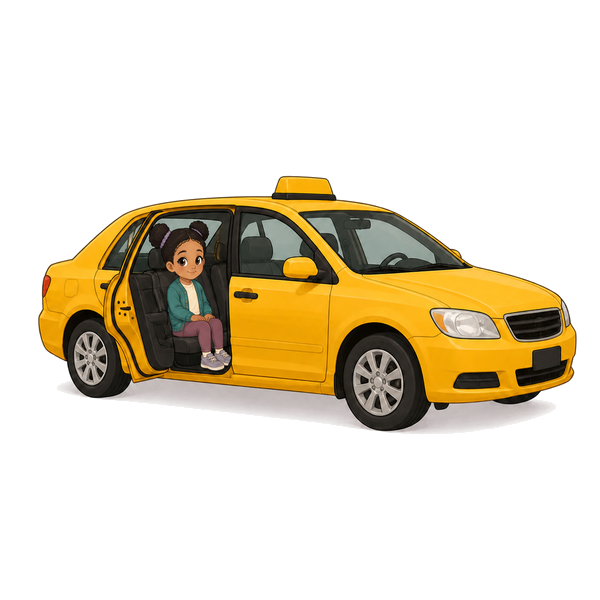
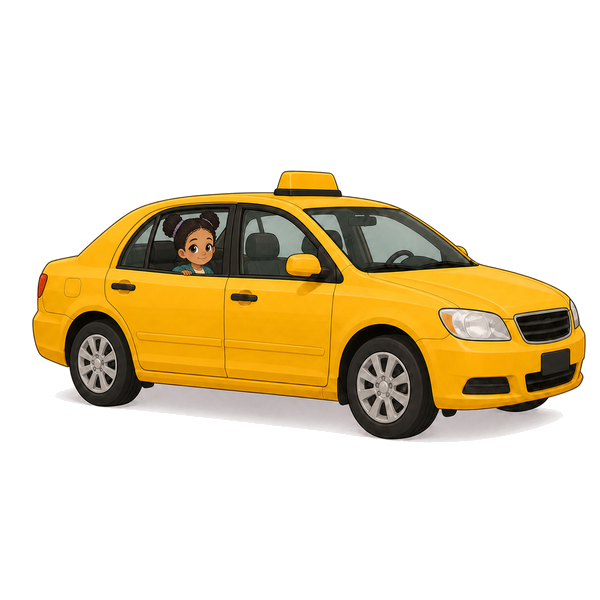
Correct Meg taxi door geometry

Changed region(s): [[0.03, 0.27, 0.99, 0.75]]

diff --git a/Stories/Meg in a Box/PROMPTS.md b/Stories/Meg in a Box/PROMPTS.md
@@ -76,4 +76,34 @@ background to exact `#FFFFFF`.
 `COMPLETE_VEHICLE=PASS`; `NO_EDGE_CONTACT=PASS`; `WHITE_FIELD=PASS`;
 `MEG_CONTINUITY=PASS`; `NO_TEXT=PASS`.
 
+## 2026-08-20 door-mechanics correction — `comp_meg_in_a_box_1.png`
+
+The accepted real-taxi candidate still depicted the rear passenger door with implausible hinge
+geometry. This correction closes every door and keeps Meg visible through the fully lowered rear
+passenger window, removing ambiguity while preserving the literal `A cab` answer.
+
+**Exact prompt:**
+
+```text
+Use case: illustration-story
+Asset type: StorySlider Level 4 comprehension answer image, mechanical correction for L4-MEG-C1
+Input images: Image 1 is the edit target. Preserve its real full-size yellow taxi, three-quarter side view, overall scale, centered framing, complete vehicle, white-field composition, Meg’s rear-passenger placement, palette, and storybook rendering. Image 2 is Meg’s identity reference; preserve Meg’s face, hair in two puff buns with lavender ties, skin tone, teal cardigan, cream shirt, plum clothing, gray-lavender sneakers, age, and expression.
+Primary request: Correct only the rear passenger-door presentation. Remove the incorrectly hinged open door and show the rear passenger door fully closed, flush with the car body, with ordinary front-hinged road-car door seams and a normal exterior handle. Roll the rear passenger window fully down so Meg remains clearly visible seated inside the rear passenger seat. Meg may rest one hand naturally near the open window edge, but her torso and legs remain inside the cabin. All four doors are closed; no door is open.
+Mechanical accuracy: standard four-door sedan construction; front edge of each rear door is beside the center B-pillar and rear edge is beside the rear wheel/quarter panel; conventional door seams; no rear-hinged or suicide door; no missing pillar; no duplicated door or handle.
+Scene/backdrop: pure solid white #FFFFFF connected to all four edges, one small soft contact shadow only.
+Style/medium: calm modern K–2 storybook anime digital vector illustration, gentle dark-charcoal outlines, soft low-contrast cel shading, muted mustard-yellow taxi.
+Composition/framing: square 1:1, complete taxi and Meg centered with generous white clearance on all sides; no crop or edge contact; readable at comprehension-card size.
+Constraints: real adult-sized taxi, not a toy; Meg is a passenger and not driving; only Meg and one taxi; no driver or other person; no road, scenery, floor plane, text, letters, numbers, logos, check mark, glow, or watermark. Change only the faulty door/window area and preserve everything else. Final intended delivery is 600x600 PNG.
+```
+
+**Generated source:** `exec-06ad776c-ec8f-4e99-b823-78d1e90badde.png`.
[1 lines of base64/hex data omitted]
+
+Final processing resized to 600×600 PNG and normalized only the edge-connected near-white
+background to exact `#FFFFFF`.
+
+`REAL_FULL_SIZE_TAXI=PASS`; `ALL_DOORS_CLOSED=PASS`; `CONVENTIONAL_DOOR_SEAMS=PASS`;
+`MEG_VISIBLE_THROUGH_OPEN_WINDOW=PASS`; `MEG_REAR_PASSENGER=PASS`; `WHITE_FIELD=PASS`;
+`NO_EDGE_CONTACT=PASS`; `NO_TEXT=PASS`.
+
 Rejected history includes the original 2026-08-12 candidate that placed Meg beside the cab.
